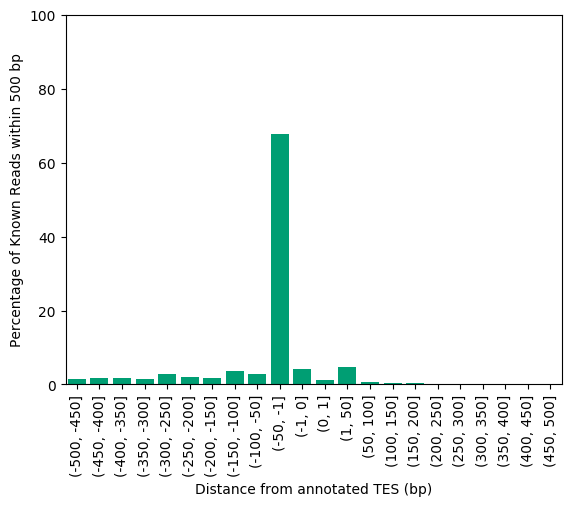
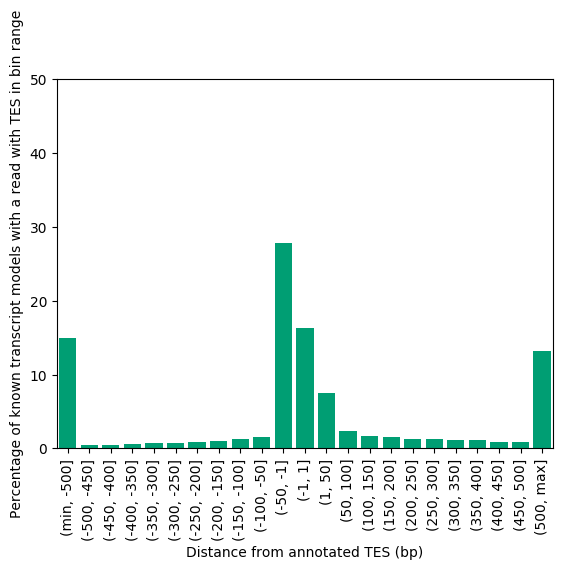
changed and added some plots

Changed region(s): [[0.0, 0.0, 0.9912, 0.9783]]

diff --git a/TSS_and_TES/plot_TSS_and_TES_annot_dists.py b/TSS_and_TES/plot_TSS_and_TES_annot_dists.py
@@ -85,7 +85,7 @@ def plot_hires_bins(df, end_type, oprefix):
 
     hires_total = len(df.loc[(df[diff_col] > -500)&(df[diff_col] <= 500)].index)
     hires_bins = [i for i in range(-500,0,50)]
-    hires_bins += [-1, 0, 1]
+    hires_bins += [-1, 1]
     hires_bins += [i for i in range(50,550,50)]
     hires_bins = [df[diff_col].min()] + hires_bins
     hires_bins += [df[diff_col].max()]
@@ -94,27 +94,47 @@ def plot_hires_bins(df, end_type, oprefix):
     labels[0] = '(min, -500]'
     labels[-1] = '(500, max]'
 
+    bin_scores = [-1*min(abs(i),abs(j)) for i, j in zip(hires_bins[:-1],hires_bins[1:])] 
+    bin_score_tuples = [(b,s) if b != '(-1, 1]' else (b,0) for b,s in zip(labels, bin_scores)]
+    bin_score_dict = {i[0]:i[1] for i in bin_score_tuples}
+
+    # {b: s if b != [-1, 1] else b: 0 for b,s in zip(labels, bin_scores)}
+
     df[hires_bin_col] = pd.cut(df[diff_col], bins=hires_bins, labels=labels)
+    df['bin_score'] = df[hires_bin_col].map(bin_score_dict)
 
 
     hires_df = df[['annot_transcript_id',
+                         'bin_score',
                          hires_bin_col,
                          diff_col]].groupby([hires_bin_col,
+                         'bin_score',
                          'annot_transcript_id'],
                          as_index=False).count()
     hires_df.dropna(inplace=True)
     hires_df.rename({diff_col: 'counts'}, axis=1, inplace=True)
 
-    bop = hires_df[[hires_bin_col, 'counts']].groupby(hires_bin_col,
+    # sort by bin score to prioritize keeping the highest-scoring 
+    # bin when dropping duplicates on transcript id
+    hires_df.sort_values(by='bin_score', ascending=False, inplace=True)
+
+    # drop duplicate transcript ids and keep the first instance
+    bop = hires_df.drop_duplicates(subset='annot_transcript_id',
+        keep='first')
+
+    beep = bop[[hires_bin_col, 'counts']].groupby(hires_bin_col,
         as_index=False).count()
+    total = beep.counts.sum()
+    beep['total_transcripts'] = total
+    beep['perc_models'] = (beep.counts/beep.total_transcripts)*100
 
 
-    ax = sns.barplot(x=hires_bin_col, y='counts',
-            data=bop, color='#009E73', saturation=1)
+    ax = sns.barplot(x=hires_bin_col, y='perc_models',
+            data=beep, color='#009E73', saturation=1)
     ax.set(xlabel='Distance from annotated {} (bp)'.format(end_type.upper()))
-    ax.set(ylabel='Number of transcript models with a read with {} in bin range'.format(end_type.upper()))
+    ax.set(ylabel='Percentage of known transcript models with a read with {} in bin range'.format(end_type.upper()))
     ax.set_xticklabels(ax.get_xticklabels(), rotation=90)
-    # ax.set(ylim=(0,100))
+    ax.set(ylim=(0,50))
     fname = '{}_{}_dists_hires.png'.format(oprefix, end_type)
     print('Saving plot {}'.format(fname))
     plt.savefig(fname,
@@ -160,43 +180,43 @@ def main():
     infile = options.infile
     ref_sites = options.ref_sites
 
-data = pd.read_csv(infile, sep = '\t', header = 0)
-ref_sites = pd.read_csv(ref_sites, sep = '\t', header = 0)
+    data = pd.read_csv(infile, sep = '\t', header = 0)
+    ref_sites = pd.read_csv(ref_sites, sep = '\t', header = 0)
 
-# Limit to known transcripts
-data = data.loc[data.transcript_novelty == "Known"]
+    # Limit to known transcripts
+    data = data.loc[data.transcript_novelty == "Known"]
 
-# Remove chrM reads
-data = data.loc[data.chrom != "chrM"]
+    # Remove chrM reads
+    data = data.loc[data.chrom != "chrM"]
 
-# Filter datasets (optional)
-if options.datasets != None:
-    datasets = options.datasets.split(",")
-    data = data[data['dataset'].isin(datasets)]
+    # Filter datasets (optional)
+    if options.datasets != None:
+        datasets = options.datasets.split(",")
+        data = data[data['dataset'].isin(datasets)]
 
-# Remove spikes unless requested to keep
-if options.spikes == False:
-     data = data[~data.chrom.str.contains("SIRV")]
-     data = data[~data.chrom.str.contains("ERCC")]     
+    # Remove spikes unless requested to keep
+    if options.spikes == False:
+         data = data[~data.chrom.str.contains("SIRV")]
+         data = data[~data.chrom.str.contains("ERCC")]     
 
-# Merge together reads with GENCODE start data
-data = data[["annot_transcript_id", "strand", "read_start", "read_end"]]
-data = pd.merge(data, ref_sites, on = "annot_transcript_id", 
-                how = "left")
+    # Merge together reads with GENCODE start data
+    data = data[["annot_transcript_id", "strand", "read_start", "read_end"]]
+    data = pd.merge(data, ref_sites, on = "annot_transcript_id", 
+                    how = "left")
 
-# Compute TSS/TES distances
-# Negative distance is upstream, positive is downstream
-data['TSS_dist'] = data.read_start - data.TSS_pos
-data['TES_dist'] = data.read_end - data.TES_pos
-data.loc[data['strand']=='-', ['TSS_dist', 'TES_dist']] *= -1
+    # Compute TSS/TES distances
+    # Negative distance is upstream, positive is downstream
+    data['TSS_dist'] = data.read_start - data.TSS_pos
+    data['TES_dist'] = data.read_end - data.TES_pos
+    data.loc[data['strand']=='-', ['TSS_dist', 'TES_dist']] *= -1
 
     # Plot
-    # plot_histogram(data, "TSS_dist", "Distance from annotated TSS (bp)", 
-    #                options.xmax, options.ymax, 
-    #                options.outprefix + "_TSS_dist_known.png")
-    # plot_histogram(data, "TES_dist", "Distance from annotated TES (bp)",
-    #                options.xmax, options.ymax,
-    #                options.outprefix + "_TES_dist_known.png")
+    plot_histogram(data, "TSS_dist", "Distance from annotated TSS (bp)", 
+                   options.xmax, options.ymax, 
+                   options.outprefix + "_TSS_dist_known.png")
+    plot_histogram(data, "TES_dist", "Distance from annotated TES (bp)",
+                   options.xmax, options.ymax,
+                   options.outprefix + "_TES_dist_known.png")
 
     oprefix = options.outprefix
     plot_hires_bins(data, 'tss', oprefix)
@@ -209,7 +229,7 @@ data.loc[data['strand']=='-', ['TSS_dist', 'TES_dist']] *= -1
     # within a certain bp of the annotated TES
     # 3. what percentage of known transcripts have both? ( these can 
     # be from different reads )
-    calc_model_read_support(data, 100)
+    calc_model_read_support(data, 50)
 
 if __name__ == '__main__':
     main()

diff --git a/TSS_and_TES/README.md b/TSS_and_TES/README.md
@@ -54,3 +54,27 @@ python plot_closest_CAGE.py \
     --f GM12878_PacBio_bedtools_closest.tsv \
     --xmax 800 --ymax 3500000 --o GM12878_PacBio    
 ```
+
+4. Also generate plots for ONT 
+```bash
+python plot_TSS_and_TES_annot_dists.py \
+    --f /share/crsp/lab/seyedam/share/TALON_paper_data/revisions_1-20/human_TALON/GM12878_talon_read_annot.tsv \
+    --ref gencode.v29.SIRV.ERCC.TSS_and_TES.tsv \
+    --datasets ONT_GM12878_R1,ONT_GM12878_R2 \
+    --xmax 800 \
+    --ymax 750000 \
+    --o GM12878_ONT
+```
+
+<img align="center" width="400" src="GM12878_ONT_tss_dists_hires.png">
+<img align="center" width="400" src="GM12878_ONT_TSS_dist_known.png">
+<img align="center" width="400" src="GM12878_ONT_tes_dists_hires.png">
+<img align="center" width="400" src="GM12878_ONT_TES_dist_known.png">
+
+We also get results about the number of known isoforms that have a read with a start that falls within 50 bp of the annotated TSS/TES
+
+```
+Found 13680 models with at least one read within 50 bp of the annotated TSS, which is 58.19% of known models
+Found 13742 models with at least one read within 50 bp of the annotated TES, which is 58.45% of known models
+Found 8299 models with at least one read within 50 bp of the annotated TSS and with at least one read within 50 bp of the annotated TES, which is 35.30% of known models
+```
